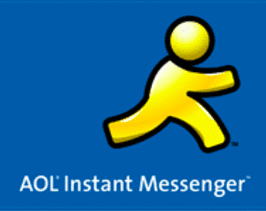
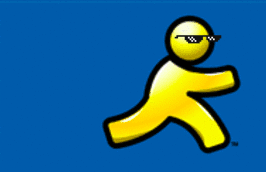
login box with sunglassses

Changed region(s): [[0.0602, 0.0581, 0.9323, 0.9593], [0.9323, 0.814, 0.9624, 0.843]]

diff --git a/asl-front/pages/login/index.jsx b/asl-front/pages/login/index.jsx
@@ -1,6 +1,6 @@
-import React, { useRef, useEffect } from 'react';
-import '98.css';
-import '../../src/app/globals.css';
+import React, { useRef, useEffect } from "react";
+import "98.css";
+import "../../src/app/globals.css";
 
 export default function Login() {
   const windowRef = useRef(null);
@@ -39,14 +39,14 @@ export default function Login() {
         isDragging = false;
       };
 
-      windowElement.addEventListener('mousedown', handleMouseDown);
-      windowElement.addEventListener('mousemove', handleMouseMove);
-      windowElement.addEventListener('mouseup', handleMouseUp);
+      windowElement.addEventListener("mousedown", handleMouseDown);
+      windowElement.addEventListener("mousemove", handleMouseMove);
+      windowElement.addEventListener("mouseup", handleMouseUp);
 
       return () => {
-        windowElement.removeEventListener('mousedown', handleMouseDown);
-        windowElement.removeEventListener('mousemove', handleMouseMove);
-        windowElement.removeEventListener('mouseup', handleMouseUp);
+        windowElement.removeEventListener("mousedown", handleMouseDown);
+        windowElement.removeEventListener("mousemove", handleMouseMove);
+        windowElement.removeEventListener("mouseup", handleMouseUp);
       };
     }
   }, []);
@@ -56,11 +56,40 @@ export default function Login() {
       <div style={{ height: "100px" }}></div>
 
       <div className="flex-container">
-      <div className="window" style={{ height: "600px", width: "300px", backgroundColor: 'silver', position: 'absolute', top: '50%', left: '50%', transform: 'translate(-50%, -50%)' }} ref={windowRef}>
-
-        {/* <div className="window" style={{ height: "600px", width: "300px" }} ref={windowRef}> */}
+        <div
+          className="window"
+          style={{
+            height: "600px",
+            width: "300px",
+            backgroundColor: "silver",
+            position: "absolute",
+            top: "50%",
+            left: "50%",
+            transform: "translate(-50%, -50%)",
+          }}
+          ref={windowRef}
+        >
           <div className="title-bar">
-            <div className="title-bar-text">Sign On</div>
+          <div
+              className="title-bar-icon"
+              style={{
+                height: "10%",
+                width: "10%",
+                // backgroundColor: "#005BAB",
+                // opacity: 1,
+              }}
+            >
+              <img
+                src="/aol-man.png"
+                alt=""
+                style={{ margin: "0 auto" }}
+              />
+            </div>
+            <div className="title-bar-text"
+              style={{
+              width:"180px"
+            }}
+            >Sign On</div>
             <div className="title-bar-controls">
               <button className="controls" aria-label="Minimize"></button>
               <button className="controls" aria-label="Maximize"></button>
@@ -68,17 +97,52 @@ export default function Login() {
             </div>
           </div>
           <div className="window-body">
-            <div className="aol-box" style={{ height: '100%', width: '100%', backgroundColor: '#005BAB', opacity: 1 }}>
-              <img src='/login-header.png' alt="" style={{ margin: '0 auto' }}/>
+            <div
+              className="aol-box"
+              style={{
+                height: "100%",
+                width: "100%",
+                backgroundColor: "#005BAB",
+                opacity: 1,
+                
+              }}
+            >
+           <img
+  src="/cool-man.png"
+  alt=""
+  style={{ margin: "0 auto", height: "40%", width: "40%", float: "right" }}
+/>
+
+              <div
+                className="ASL-title"
+                style={{
+                  height: "25%",
+                  width: "100%",
+                  backgroundColor: "#005BAB",
+                  opacity: 1,
+
+                }}>
+                 
+              <img
+                src="/ASL-logo-text.png"
+                alt=""
+                style={{ margin: "0 auto" }}
+              />
+              </div>
+              {/* <div style={{ height: "100px" }}></div> */}
+
             </div>
-            <div className="field-row-stacked" style={{ width: "200px", justifyContent: 'center' }}>
+            <div
+              className="field-row-stacked"
+              style={{ width: "200px", justifyContent: "center" }}
+            >
               <label for="text22">Screen Name</label>
               <input id="text22" type="user" value="" />
             </div>
             <div className="field-row-stacked" style={{ width: "200px" }}>
               <label for="text23">Password</label>
-            <input id="text23" type="password" value="" />
-            <button className="submit"></button>
+              <input id="text23" type="password" value="" />
+              <button className="submit"></button>
             </div>
           </div>
         </div>
